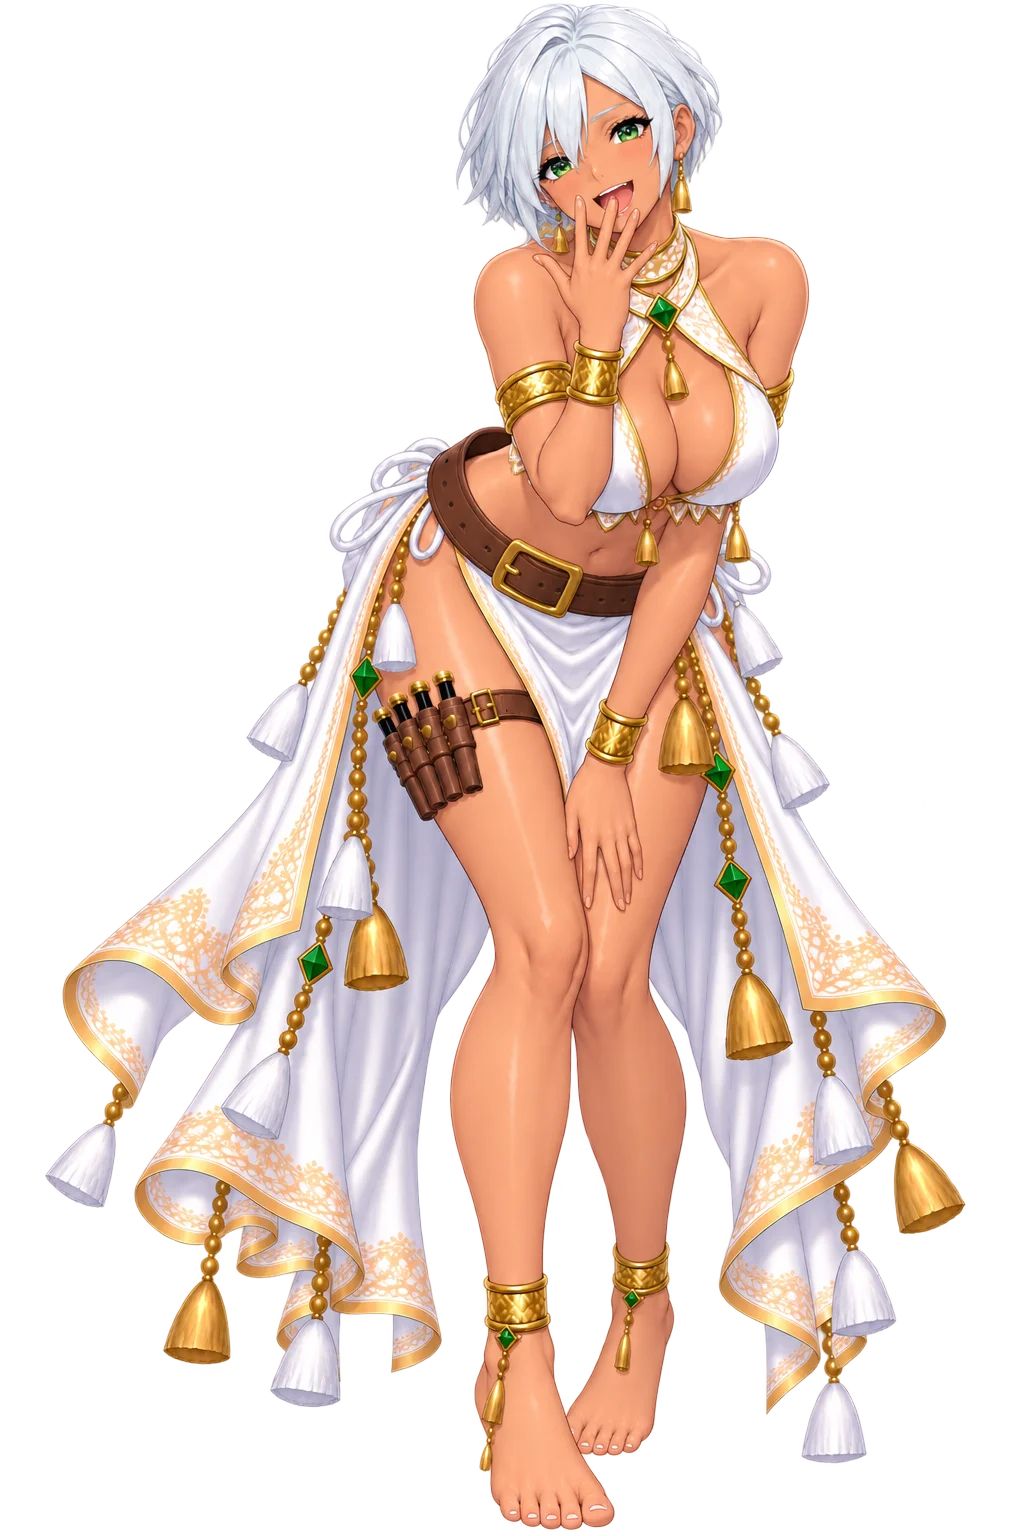
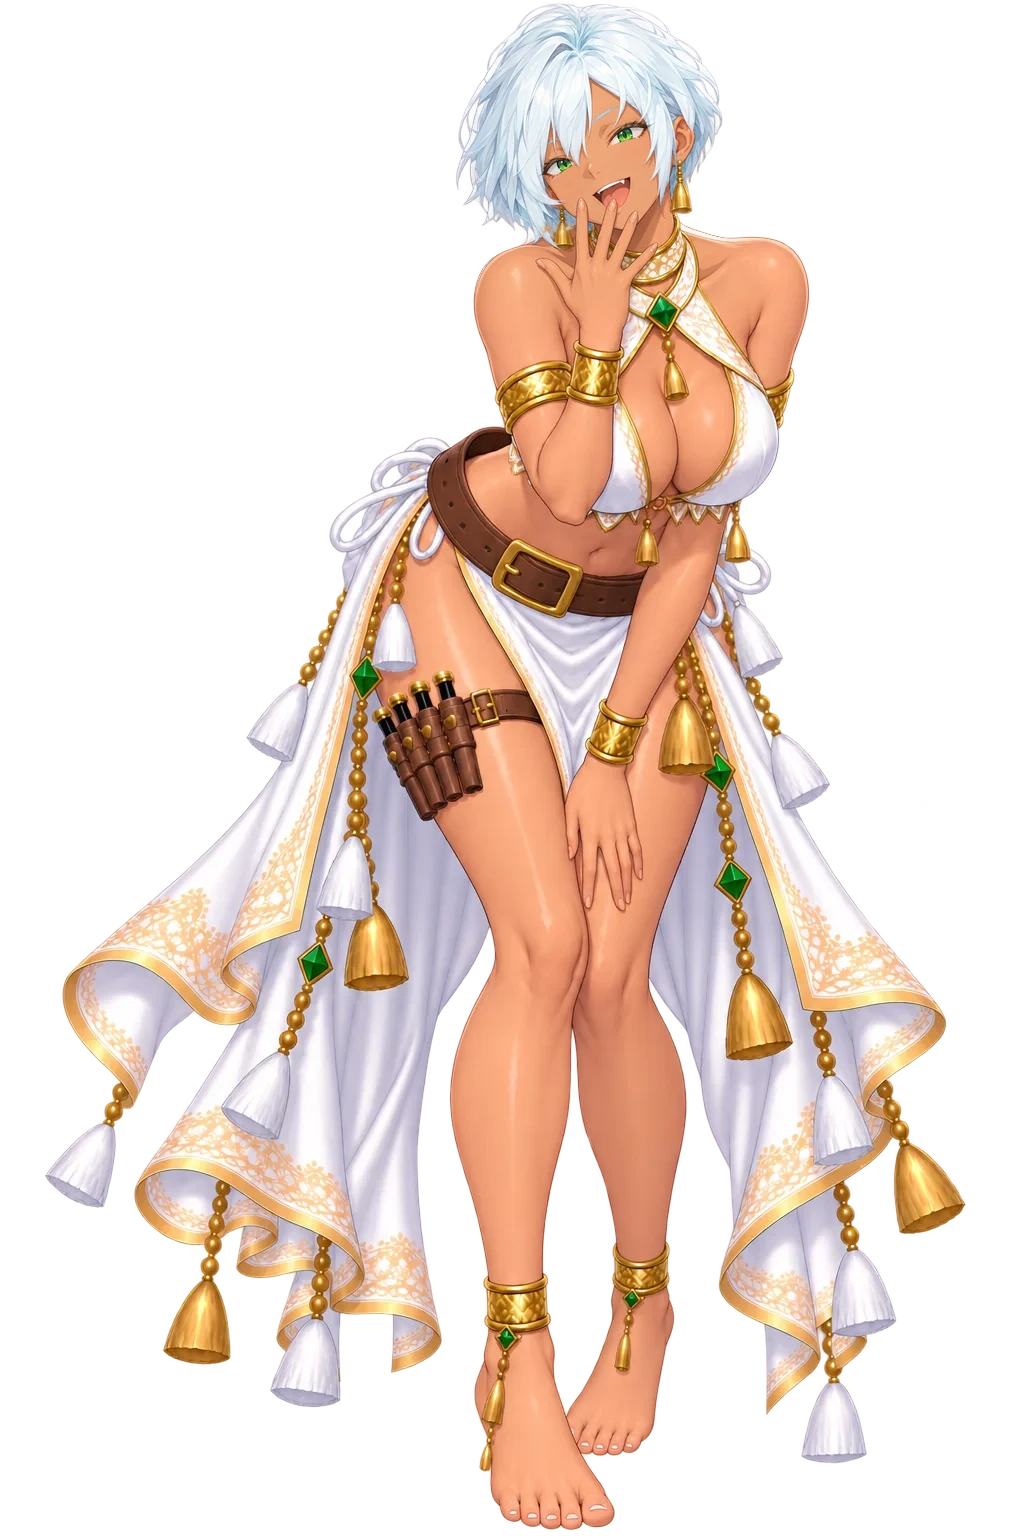
art(索拉娜): laugh 走合成備案收掉 —— 61/62，只剩 panic（Ray 自己處理）
全身重繪連擋 12 次，擋的是上傳的那張 B 本身（全身＋彎腰前傾＋深乳溝正對鏡頭）
—— 提示詞那一側沒有任何槓桿。改走 _ext_worklist.md §六的「只重生頭部」，
第一次就出圖，連一次拒絕都沒有。

⚠ 第一次把提示詞寫成「重繪」，臉變成 GPT 的預設臉（Ray：「變成 gpt 臉了」）。
  改成「請直接修改我上傳的第二張圖，不要重新繪製一張」＋ 三條否定句才鎖住。
  —— 這正是 -1650 交接檔第一節那條教訓的再一次。

⚠ 合成的兩個坑（都寫進工單）：
  ① 配準要用邊緣圖互相關解 scale/dx/dy（模型不照給定尺寸輸出，取景也更近）
  ② 羽化遮罩一定要再乘上原圖 alpha —— 新頭是白底，直接貼進半透明髮緣
     就是一圈白霧。實測近白 9.02% → 9.27%（等於沒變）

紅利：取景零位移（dTop/dBot = 0/0，身體就是原圖像素）⇒ 取景值完全不必動。
四項驗收：色相 200.8／角α 0／近白 0.01%／與 A 差 32.4 ✔

⚠ 程式端要接：speakers.js 共 17 條路徑跳 ?v=（15 張加 v=2、side/smile 改 v=3）。

Changed region(s): [[0.4375, 0.0, 0.7188, 0.2188]]

diff --git a/resources/si/_sorana_r3_worklist.md b/resources/si/_sorana_r3_worklist.md
@@ -7,7 +7,7 @@
 
 同名覆蓋，不跳就是玩家繼續吃舊的那一份，**而且畫面上不會有任何錯誤訊息**（§5 的 -650）。
 
-| 要加 `?v=2`（現在沒有版號，14 張） | `battlecry` `shy` `sorry` `surprise` `talk` `think` `tire` `upset` `watch` `whisper` `remind` `smirk` **`tease`** **`amaze`** |
+| 要加 `?v=2`（現在沒有版號，15 張） | `battlecry` `shy` `sorry` `surprise` `talk` `think` `tire` `upset` `watch` `whisper` `remind` `smirk` `tease` `amaze` **`laugh`** |
 |---|---|
 | **要改成 `?v=3`（現在是 `?v=2`，2 張）** | `side` `smile` |
 
@@ -39,86 +39,73 @@
 眼睛形狀、金飾與鈴鐺全部對得上基底 A，沒有 -1556 那種吊眼／大圓眼的變形。
 透明像素佔 53~66%，是真 alpha 不是不透明底。
 
-## 四、⚠ 還沒做完的 2 張 —— **`laugh` 與 `panic`**
+## 四、⚠ 還沒做完的 1 張 —— **`panic`（Ray 自己處理）**
 
-### ⭐⭐⭐ 破內容判定的正解：**A 換成「只有頭的特寫」**（Ray，2026-09-22）
+`panic` 不是被擋，是**不給透明背景**（角落 alpha 246~252，兩種「要透明」的寫法都無效）。
+**Ray 說他自己處理**，美術這邊不要再跑它。
 
-> Ray：「彎腰露乳溝這件事 gpt 很不喜歡」→「**把帶刀圖給換成別的，只取帶刀圖的頭**」
-> →「**不是換頭，換臉部畫風及髮色**」
+**⇒ 索拉娜 62 張的總進度：61 張已重製，剩 `panic` 一張。**
 
-**A（角色設定稿）整張全身送上去，本身就是一張高風險的圖** —— 而它**只負責臉的畫法與髮色**，
-身體那一大半是純粹的風險，沒有任何用處。裁成頭部特寫（`resources/si/soranagpt/_head_ref.png`，
-400×320，由 `soranagpt_1` 裁出）之後，提示詞改成：
+---
 
-```
-第一張是臉部畫風參考，第二張是要重繪的圖。
-臉的畫法、五官、髮色 100% 照第一張；其餘（姿勢、表情、取景、服裝、配件）100% 照第二張。
-100%保留原角色細節，alpha背景。
-```
+## 五、⭐⭐⭐ `laugh` 是走「合成備案」收掉的 —— 作法記在這裡
 
-**⇒ `tease` 與 `amaze` 當場就過了**，而這兩張在那之前**各擋了 5 次與 4 次**
-（情緒方向詞、服裝方向詞、換 session 全試過）。
+`laugh` 全身重繪**連擋 12 次**（三種情緒詞、三種服裝詞、頭部特寫當 A、
+表情詞「不懷好意地看著 viewer」、兩個槓桿疊起來、七個新 session）——
+**擋的是上傳的那張 B 本身**（全身＋彎腰前傾＋深乳溝正對鏡頭），提示詞那一側沒有槓桿。
 
-⚠⚠ **服裝改由 B 提供**，所以提示詞裡要明寫「服裝、配件照第二張」——
-A 已經沒有身體了，不補這一句它會自己發明衣服。
+⇒ 改走 `_ext_worklist.md` §六的**只重生頭部**，**第一次就出圖**（連一次拒絕都沒有）。
 
-### ⚠ 措辭實驗的完整紀錄（不要重跑一次）
-
-| 方向詞 | 對哪幾張有效 |
-|---|---|
-| 情緒（自信／挑釁／頑皮／驚訝／開朗…） | **全部無效** |
-| **穿著民族獸獵服裝的女戰士** | `smirk` ✔（連擋五次之後過的） |
-| 健康的泳裝女郎 | `laugh` ✘ |
-| 優雅的白色晚禮服 | `laugh` ✘ ／ `amaze` ✘ |
-| **改用頭部特寫當 A**（不寫任何方向詞） | **`tease` ✔ ／ `amaze` ✔ ／ `laugh` ✘** |
-
-⇒ **規律**：① 描述「她穿什麼」降風險、描述「她在做什麼表情」升風險
-（表情本來就由「照第二張」鎖住，再寫一次只是多給分類器一個把柄）
-② **真正的大頭是「上傳的圖有多露」**，不是提示詞 —— 換掉 A 的效果遠大於換任何措辭。
-
-| 鍵 | 累計試了幾次 | 狀況 |
+| 步 | 做什麼 | 產物 |
 |---|---|---|
-| **`laugh`** | **12** | **每一個槓桿都試過了，全部無效** —— 見下表 |
-| **`panic`** | **3** | **沒有被擋**，但角落 alpha 246~252 ＝ 它自己畫了背景。⚠ **Ray 說他自己處理** |
+| ① | 從原圖裁**頭＋摀嘴的手**，白底、放大 3× | `resources/si/soranagpt/_laugh_headcrop.png`（BOX `(430,0,760,350)` → 990×1050） |
+| ② | 上傳「臉部畫風參考 ＋ 這張頭部特寫」 | 見下面的提示詞 |
+| ③ | 本機配準（縮放＋位移）＋ 羽化遮罩貼回 | 成品 |
 
-### ⚠⚠⚠ `laugh` 的完整實驗表（**不要再重跑一次，12 次都在這裡**）
+### ⚠⚠⚠ ②的提示詞 —— **「修改」不是「重繪」，而且要帶否定句**
 
-| 試了什麼 | 結果 |
-|---|---|
-| 情緒方向詞（開朗／開懷大笑） | ✘ ✘ |
-| 服裝方向詞（民族獸獵服裝／健康的泳裝女郎／優雅的白色晚禮服） | ✘ ✘ ✘ |
-| **頭部特寫當 A**（`tease`／`amaze` 就是這樣過的） | ✘ |
-| 頭部特寫 ＋ 表情描述「不懷好意地看著 viewer」（Ray 指定，直球對決） | ✘ ✘ |
-| 頭部特寫 ＋ 服裝詞 ＋ 表情詞（兩個槓桿疊起來） | ✘ |
-| 換 session | **七個不同的新 session**，全擋 |
+**第一次寫成「重繪」，結果臉變成 GPT 的預設臉**（Ray 一眼就退：「臉部畫風沒鎖好」
+「變成 gpt 臉了」）。改成下面這一版才鎖住：
 
-⇒ **結論：擋的是「上傳的那張 B」本身，提示詞那一側沒有任何槓桿。**
-那張圖是**全身 ＋ 彎腰前傾 ＋ 深乳溝正對鏡頭 ＋ 腿全露** —— Ray 的判斷
-（「彎腰露乳溝這件事 gpt 很不喜歡」）完全正確。`tease`／`amaze` 是半身近景，
-所以換掉 A 就過得了；`laugh` 是全身，**B 自己就足以觸發**。
+```
+請直接修改我上傳的第二張圖，不要重新繪製一張。
+只改一件事：把臉的畫法換成第一張的畫風 —— 五官的形狀、線稿的粗細與筆觸、
+上色與陰影的方式，全部照第一張。不要重新詮釋、不要換畫風。
+表情、頭的角度與位置、髮型、耳飾、領口、手、構圖、尺寸，全部維持第二張原樣。
+⛔ 不要把眼睛畫得又大又圓、不要加長睫毛、不要畫雙眼皮褶
+⛔ 瀏海不要變成粗大的色塊
+⛔ 不要加腮紅
+白底。
+```
 
-**⇒ 索拉娜 62 張的總進度：44 ＋ 16 ＝ 60 張已重製，還差 2 張。**
+⚠ 這正是 -1650 交接檔第一節那條教訓的再一次：**「請直接修改我上傳的這一張圖，
+不要重新繪製一張」** —— 寫「重繪」就是邀請它照規格重新設計。
 
-⚠⚠⚠ **`laugh` 要不要繼續是 Ray 的決定**（它已經接進腳本，換姿勢等於改掉那一拍的演出）：
-1. **留著舊圖** —— 畫面不會壞，只是那一張還是舊臉模
-2. **換一個不彎腰的姿勢重畫** —— 演出會變，取景要重量
-3. ⭐ **走 `_ext_worklist.md` §六的合成備案（只重生頭部）** ——
-   憲法把它列為「**內容判定真的擋死**」時的備案，而 `laugh` 正是那個情況：
-   身體不重畫（也就不必上傳整張全身圖去觸發判定），只把頭部特寫重生成再羽化合回去。
-   ⚠ ver -1502 驗證過這條路**技術上完全成立**（接縫看不出來、臉零漂移、服裝 100% 一致）；
-   -1503 把它降級成備案的理由是「**多樣性**」（怕 18 張差分變成一具身體換 18 張臉）——
-   **那個理由在這裡不成立**：這是既有那一張的**重製**，身體本來就該一模一樣。
+### ⚠⚠⚠ ③的兩個坑
 
-## 五、⚠ 這一輪踩到的坑（下一個人先看這裡）
+1. **配準**：模型不會照你給的尺寸輸出（要 990×1050，它給 1217×1292，而且取景更近）。
+   ⇒ 用**邊緣圖的正規化互相關**粗搜 ＋ 細搜，解出 `scale/dx/dy`（這一張是 1.010／0／+16，
+   在 2× 空間）。⚠ 不要用肉眼對齊，差幾像素在臉上就看得出來。
+2. ⚠⚠⚠ **羽化遮罩一定要再乘上原圖的 alpha** —— 新頭是**白底**，直接貼進
+   半透明的髮緣就是**一圈白霧**（第一版整顆頭外圍發光，肉眼一看就知道）。
+   作法：`mask = 羽化 × clip((alpha-200)/55, 0, 1)` ⇒ 半透明的邊一律保留原圖 RGB。
+   實測：原圖半透明近白 9.02% → 合成後 **9.27%**（＋0.25pp，等於沒有變）。
 
-1. **`_sorana_check.py` 的 `BASE` 指到 `resources/_originals/SI_sorana_base/soranagpt_1.png`，
-   而 `_originals` 沒進版控** —— 換一台機器就跑不動。
-   ⇒ 版控裡的那一份在 **`resources/si/soranagpt/`**（四張 UUID 檔名 ＝ `soranagpt_1~4`，
-   依檔名時間排序）。複製回去就好。**頭部特寫 `_head_ref.png` 也在那個資料夾（已進版控）。**
-2. **`javascript_tool` 有 45 秒上限** —— `__send()` 自己就睡 20 秒，再串一個
-   25 秒的等待就會 timeout，**而且送出其實已經成功了**，只是回傳被砍掉。
-   ⇒ `__send` 與 `__grab` 要分成兩次呼叫，中間用 browser_batch 的 `wait` 湊時間。
-3. **換一個新對話之後 `ref` 會失效，而且同一個編號會被重新指派給別的元素**
-   ⇒ 每開一個新串就重新 `find` 一次檔案輸入欄。
-4. ⚠⚠ **判「被擋了沒」一律看 `newImageTurns`（那一回合的讚鈕），不要看頁面文字**
-   —— 拒絕訊息會留在頁尾不消失（憲法 -1503 就寫過）。`_grab.js` 的 `__state()` 是唯一計算點。
+### ✔ 合成的三個紅利（全身重畫做不到）
+
+- **取景零位移**：`dTop/dBot = 0/0`（身體就是原圖的像素）⇒ **取景值完全不必動**
+- **服裝與配件 100% 一致**（根本沒重畫）
+- **不踩內容判定**（送上去的只有頭）
+
+四項驗收：色相 **200.8**／角α **0**／近白 **0.01%**／與基底 A 的差 **32.4** ✔
+
+## 六、⚠ 這一輪踩到的坑（下一個人先看這裡）
+
+1. **`_sorana_check.py` 的 `BASE` 指到 `_originals/`，而 `_originals` 沒進版控**
+   ⇒ 換一台機器就跑不動。版控裡的那一份在 **`resources/si/soranagpt/`**
+   （四張 UUID 檔名 ＝ `soranagpt_1~4`）。**頭部特寫 `_head_ref.png` 也在那裡。**
+2. **`javascript_tool` 有 45 秒上限** —— `__send()` 自己就睡 20 秒，再串長等待就 timeout，
+   **而且送出其實已經成功了**，只是回傳被砍掉。⇒ `__send` 與 `__grab` 分兩次呼叫。
+3. **換新對話之後 `ref` 會失效，而且同一個編號會被重新指派給別的元素** ⇒ 每串重新 `find`。
+4. ⚠⚠ **判「被擋了沒」看 `newImageTurns`（那一回合的讚鈕），不要看頁面文字** ——
+   拒絕訊息會留在頁尾不消失。`_grab.js` 的 `__state()` 是唯一計算點。
